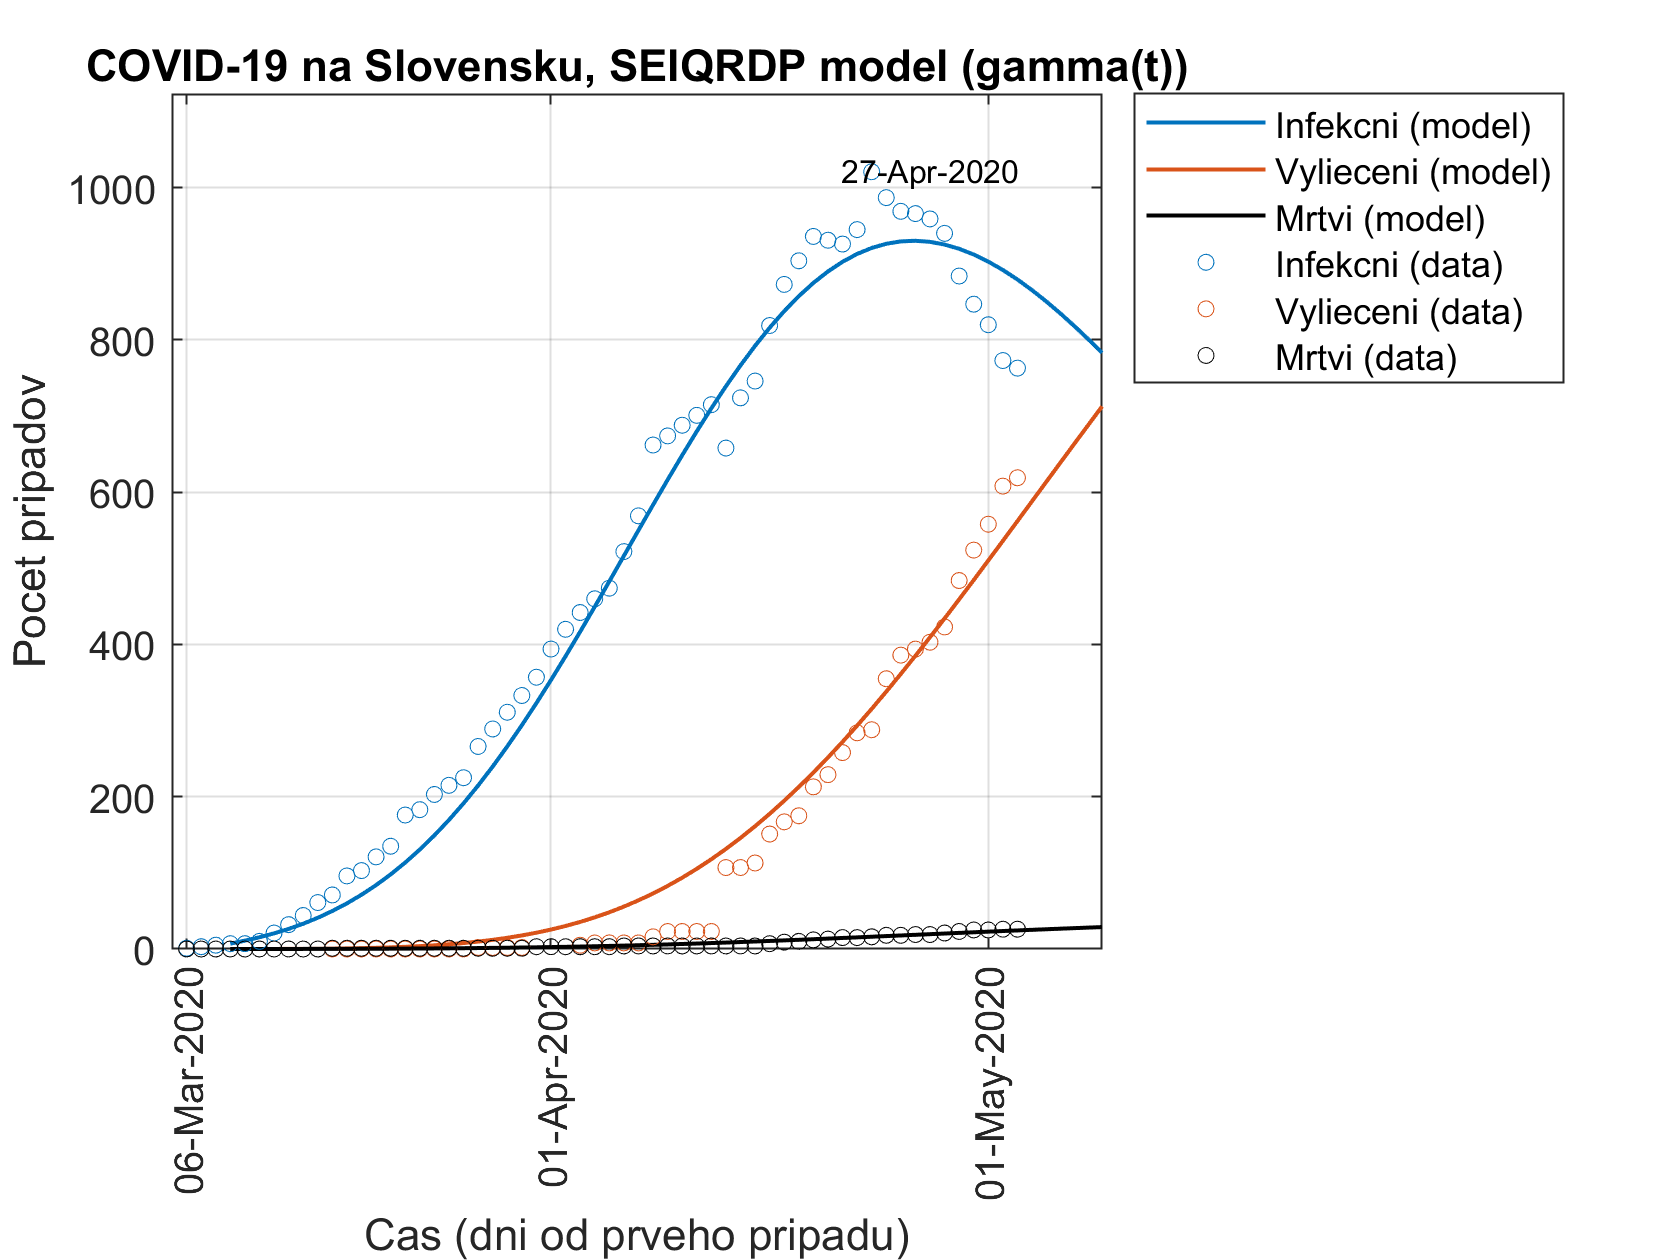
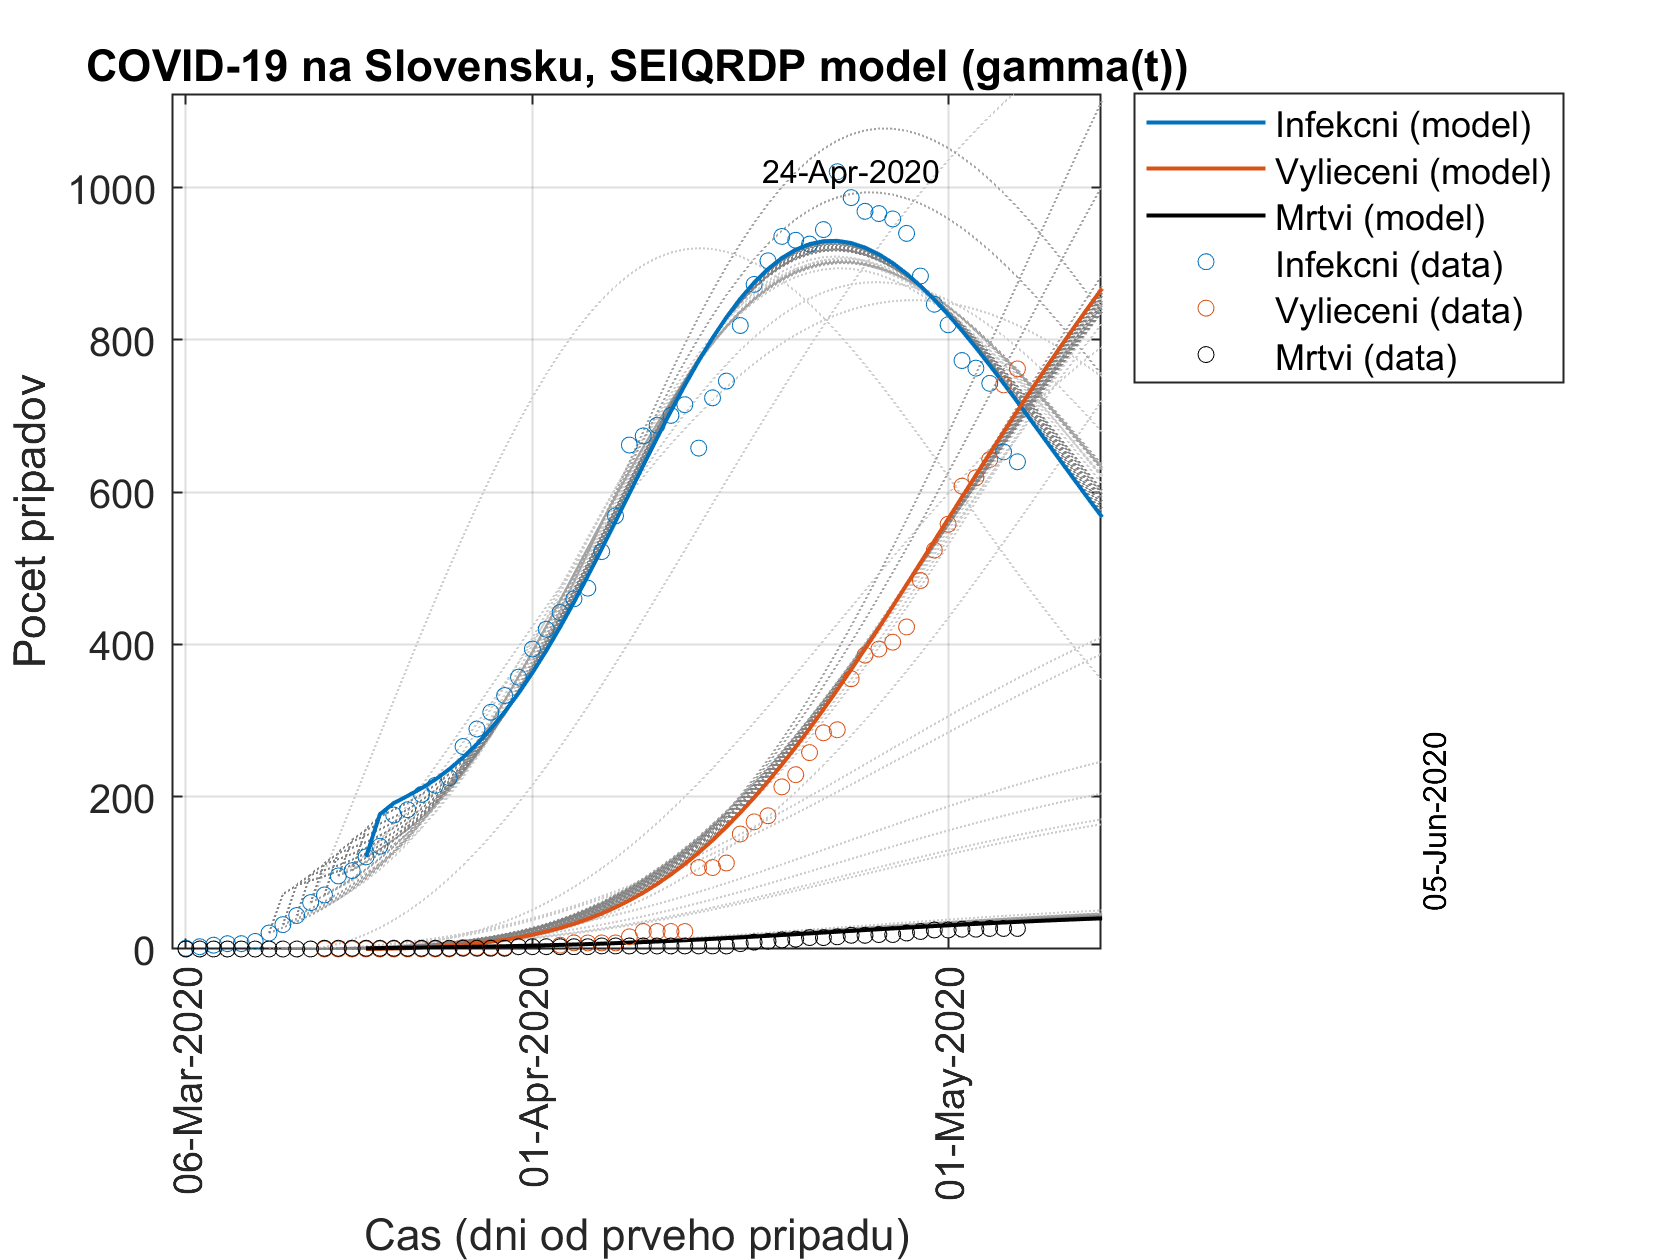
Quite good fit with data

diff --git a/SEIQRDP_ID.m b/SEIQRDP_ID.m
@@ -22,17 +22,18 @@ fitPrev=inf;
 fitBeginBest=1;
 
 
-fitTestBegin=7;
-fitTestSpan=14;
+fitTestBegin=6;
+fitTestSpan=21;
 
 %fitTestSpan=31;
 
 mod=1;
 iterations=100;
-method = ["fmincon","gna","lsqnonlin"];
-%method = ["fmincon"];
-figure(101)
 
+%method = ["lsqnonlin"];
+%method = ["gna","lsqnonlin"];
+method = ["gna","fmincon","lsqnonlin"];
+%method = ["lsqnonlin"];
 
 disp(['Day',' ','MSE','   ','FPE', '   AIC','    AICc','    nAIC'])
 for i=1:1:length(method)
@@ -59,18 +60,20 @@ opt = simOptions('InitialCondition',InitialStates);
 
     
 %% Simulate 
-
+figure(101)
 t=fitBegin:length(X)+fitBegin-1;
 h1=semilogy(t,X(:,4),':','Color',gray,'LineWidth',0.5);
 hold on;
 h2=semilogy(t,X(:,5),':','Color',gray,'LineWidth',0.5);
 h3=semilogy(t,X(:,6),':','Color',gray,'LineWidth',0.5);
 
+
 set(get(get(h1,'Annotation'),'LegendInformation'),'IconDisplayStyle','off');
 set(get(get(h2,'Annotation'),'LegendInformation'),'IconDisplayStyle','off');
 set(get(get(h3,'Annotation'),'LegendInformation'),'IconDisplayStyle','off');
 
-
+set(gca,'yscale','lin')
+axis([0,150,0,1.5E3])
 % If prediction does not fly off the charts
 % Probably these are some local minimums, should check and compar 
 % Parameters
@@ -114,7 +117,7 @@ opt = simOptions('InitialCondition',InitialStates);
 % RES.OutputData(end,1)-RES.OutputData(1,1);
 % return
 [Y A X]=sim(SEIQRDPm,udata,opt);
-figure(101)
+hold on
 t=fitBegin:length(X)+fitBegin-1;
 semilogy(t,X(:,4),'-','Color',blue,'LineWidth',1);
 hold on;
@@ -203,7 +206,7 @@ I=cumsum(Confirmed);      % Cumulative sum of daily cases, transpose to make it 
 R=cumsum(Recovered);      % Cumulative sum of daily cases, transpose to make it compatible w/ E. Cheynet's code
 D=cumsum(Deaths);         % Cumulative sum of daily cases, transpose to make it compatible w/ E. Cheynet's code
 I=I-R-D;                   % Active infections
-
+hold on
 semilogy(Day,I,'o','Color',blue,'MarkerSize',4,'LineWidth',0.1)
 hold on
 semilogy(Day,R,'o','Color',orange,'MarkerSize',4,'LineWidth',0.1)
@@ -233,8 +236,9 @@ set(pandemicPeak,'FontSize',8)
 leg = {'Infekcni (model)','Vylieceni (model)','Mrtvi (model)','Infekcni (data)','Vylieceni (data)','Mrtvi (data)'};
 legend(leg{:},'location','northeastoutside')
 
+axis([0,fitBegin+min(find(X(max(Day):end,4)<1))+10,0,max(X(:,5))*1.1])
 
-axis([0,fitBegin+min(find(X(max(Day):end,4)<10))+20,0,max(X(:,5))*1.1])
+%axis([0,fitBegin+min(find(X(max(Day):end,4)<10))+20,0,max(X(:,5))*1.1])
 %axis([0,270,0,max(X(:,5))*1.1])
 cd out
 print(['skCOVID19_SEIQRD_GammaT_LongTerm'],'-dpng','-r0')

diff --git a/fitSEIRDQP.m b/fitSEIRDQP.m
@@ -36,11 +36,12 @@ alpha  = 0.05;
 beta   = 1.5;        % [Days] 
 sigma  = 3;      % [Days] Latent period
 delta  = 4;       % [Days] Quaratine period
-gamma0 = 1/0.1;
-mu     = 1E-4;
+gamma0 = 1/0.8;
+mu     = 0.002;
+
 
 if mod == 1
-    gamma1=0.0001; % was 
+    gamma1=0.001; % was 
 else 
     gamma1=0.0;
 end
@@ -96,7 +97,7 @@ SEIQRDPinit.Parameters(4).Fixed = false;
 
 % gamma0 - recovery rate
 SEIQRDPinit.Parameters(5).Minimum = eps;   % [1/days] 
-%SEIQRDPinit.Parameters(5).Maximum = 0.1;    % [1/days] 
+SEIQRDPinit.Parameters(5).Maximum = 2;    % [1/days] 
 SEIQRDPinit.Parameters(5).Fixed = false; 
 
 % gamma1 - recovery rate
@@ -190,10 +191,10 @@ if strcmp(method,'lsqnonlin')
  %optEst.GradientOptions.MinDifference=1E-8;
 end
 
-optEst.OutputWeight=diag([100,10,100]);
+%optEst.OutputWeight=diag([1000,10,100]);
 %optEst.OutputWeight=diag([500,25,50]);
 %50,10,5
-% optEst.OutputWeight=diag([120,25,20]);
+ optEst.OutputWeight=diag([120,25,20]);
 % optEst.OutputWeight=diag([100,25,10]);
 %optEst.Regularization.Lambda = 1.1;
 

diff --git a/SEIQRDP_ID2.m b/SEIQRDP_ID2.m
@@ -22,8 +22,8 @@ fitPrev=inf;
 fitBeginBest=1;
 
 
-fitTestBegin=6;
-fitTestSpan=31;
+fitTestBegin=5;
+fitTestSpan=14;
 
 %fitTestSpan=31;
 
